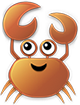
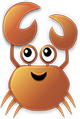
mobile game fixes

diff --git a/style/style.css b/style/style.css
@@ -386,7 +386,7 @@ button .banner {
   color: #FFFFFF;
   width: 80px;
   height: 80px;
-  box-shadow: 0px 0px 20px 5px rgba(255, 255, 255, 0.30);
+  box-shadow: 0px 0px 20px 5px rgba(0, 0, 0, 0.30);
 }
 
 #answer-row td:last-of-type {
@@ -944,6 +944,16 @@ h2 {
     width: 300px;
   }
   
+  .equation-answer {
+    width: 40px;
+    height: 40px;
+    box-shadow: 0px 0px 20px 5px rgba(0, 0, 0, 0.30);
+  }
+  
+  #answer-table {
+    width: 350px;
+  }
+  
   #game-over {
     width: 300px;
     animation-name: game-over-fade-in;
@@ -971,7 +981,7 @@ h2 {
   }
   
   #main-menu {
-    top: 45%;
+    top: 47%;
   }
 }
 

diff --git a/js/resizeCanvas.js b/js/resizeCanvas.js
@@ -14,6 +14,13 @@ function resizeCanvas() {
 
     // Resize player canvas and redraw player sprite
     game.playerCanvas.width = wrapper.clientWidth;
+    
+    if (window.innerWidth < 1000) {
+      game.playerCanvas.height = 119;
+    } else {
+      game.playerCanvas.height = 178;
+    }
+    
     game.player.draw();
   }
 }
